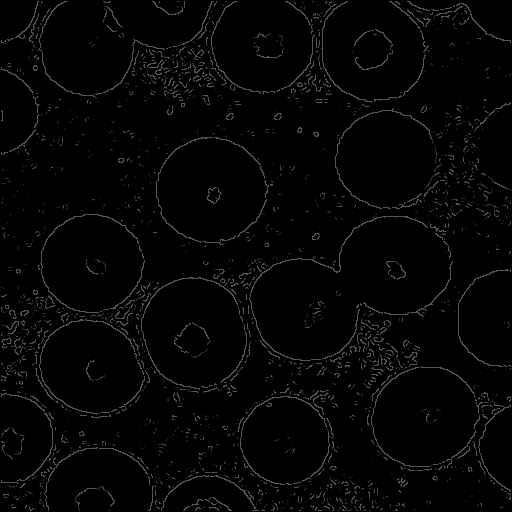
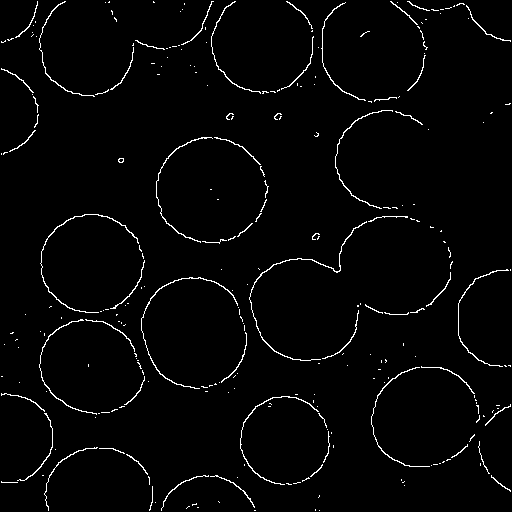
Removed AlphaTrim. Added EdgeTrackerHysteresis. Some filters have been improved.

diff --git a/src/main/java/net/vinograd/imageprocessingapi/processing/edgedetection/tracking/EdgeTrackerHysteresis.java b/src/main/java/net/vinograd/imageprocessingapi/processing/edgedetection/tracking/EdgeTrackerHysteresis.java
@@ -1,0 +1,70 @@
+package net.vinograd.imageprocessingapi.processing.edgedetection.tracking;
+
+
+import net.vinograd.imageprocessingapi.processing.image.Image;
+import net.vinograd.imageprocessingapi.processing.image.PixelColor;
+
+import java.awt.image.BufferedImage;
+
+public class EdgeTrackerHysteresis implements EdgeTracker {
+
+    private final Image image;
+    private final int width;
+    private final int height;
+
+    private final int[][] directions = {
+            {-1, -1}, {-1, 0}, {-1, 1},
+            {0, 1}, {0, -1},
+            {1, -1}, {1, 0}, {1, 1}
+    };
+
+    public EdgeTrackerHysteresis(Image image) {
+        this.image = image;
+        this.width = image.getWidth();
+        this.height = image.getHeight();
+    }
+
+    @Override
+    public Image track() {
+        BufferedImage resultImage = new BufferedImage(width, height, image.getType());
+
+        for (int x = 0; x < width; x++) {
+            for (int y = 0; y < height; y++) {
+                int color = image.getRGB(x, y);
+
+                if (color != PixelColor.fromGrayscale(255)) {
+                    resultImage.setRGB(x, y, PixelColor.fromGrayscale(0));
+                    continue;
+                }
+
+                resultImage.setRGB(x, y, PixelColor.fromGrayscale(255));
+
+                for (int[] direction : directions) {
+                    int dx = direction[0];
+                    int dy = direction[1];
+                    int offsetX = x;
+                    int offsetY = y;
+
+                    while (true) {
+                        offsetX += dx;
+                        offsetY += dy;
+
+                        if (offsetX < 0 || offsetX >= width || offsetY < 0 || offsetY >= height) {
+                            break;
+                        }
+
+                        int colorByDirection = image.getRGB(offsetX, offsetY);
+
+                        if (colorByDirection == PixelColor.fromGrayscale(255) || colorByDirection == PixelColor.fromGrayscale(0)) {
+                            break;
+                        }
+
+                        resultImage.setRGB(x, y, PixelColor.fromGrayscale(255));
+                    }
+                }
+            }
+        }
+
+        return new Image(resultImage);
+    }
+}

diff --git a/src/main/java/net/vinograd/imageprocessingapi/processing/edgedetection/CannyOperator.java b/src/main/java/net/vinograd/imageprocessingapi/processing/edgedetection/CannyOperator.java
@@ -1,5 +1,6 @@
 package net.vinograd.imageprocessingapi.processing.edgedetection;
 
+import net.vinograd.imageprocessingapi.processing.edgedetection.tracking.EdgeTrackerHysteresis;
 import net.vinograd.imageprocessingapi.processing.filter.point.MonochromeGrayConverter;
 import net.vinograd.imageprocessingapi.processing.edgedetection.gradient.GradientCalculator;
 import net.vinograd.imageprocessingapi.processing.edgedetection.gradient.SobelGradientCalculator;
@@ -7,7 +8,6 @@ import net.vinograd.imageprocessingapi.processing.edgedetection.threshold.Double
 import net.vinograd.imageprocessingapi.processing.edgedetection.gradient.GradientMagnitude;
 import net.vinograd.imageprocessingapi.processing.edgedetection.suppression.NonMaximumSuppressor;
 import net.vinograd.imageprocessingapi.processing.filter.matrix.GaussianBlur;
-import net.vinograd.imageprocessingapi.processing.filter.point.NegativeFilter;
 import net.vinograd.imageprocessingapi.processing.image.Image;
 
 public class CannyOperator {
@@ -15,8 +15,8 @@ public class CannyOperator {
     public Image detectEdges(Image image) {
         final double gaussianBlurSigma = 5.0;
         final int gaussianKernelSize = 3;
-        final double lowerThresholdPercentage = 0.5;
-        final double upperThresholdPercentage = 0.6;
+        final double lowerThresholdPercentage = 0.8;
+        final double upperThresholdPercentage = 0.9;
 
         Image resultImage;
 
@@ -26,8 +26,7 @@ public class CannyOperator {
         resultImage = new GradientMagnitude(resultImage, gradientCalculator).apply();
         resultImage = new NonMaximumSuppressor(resultImage, gradientCalculator).suppressNonMaximum();
         resultImage = new DoubleThresholdFilter(upperThresholdPercentage, lowerThresholdPercentage).threshold(resultImage);
-        resultImage = new MonochromeGrayConverter(resultImage).convert();
-        //resultImage = new NegativeFilter(resultImage).convert();
+        resultImage = new EdgeTrackerHysteresis(resultImage).track();
 
         return resultImage;
     }

diff --git a/src/main/java/processing/SobelOperator.java b/src/main/java/processing/SobelOperator.java
@@ -4,7 +4,6 @@ import net.vinograd.imageprocessingapi.processing.edgedetection.gradient.Gradien
 import net.vinograd.imageprocessingapi.processing.edgedetection.gradient.GradientMagnitude;
 import net.vinograd.imageprocessingapi.processing.edgedetection.gradient.SobelGradientCalculator;
 import net.vinograd.imageprocessingapi.processing.filter.point.MonochromeGrayConverter;
-import net.vinograd.imageprocessingapi.processing.filter.point.NegativeFilter;
 import net.vinograd.imageprocessingapi.processing.image.Image;
 
 import javax.imageio.ImageIO;

diff --git a/src/main/java/processing/GaussianBlurExample.java b/src/main/java/processing/GaussianBlurExample.java
@@ -14,7 +14,7 @@ public class GaussianBlurExample {
     private static final String pathToSave = "examples/GaussianBlurConverted.jpg";
 
     public static void main(String[] args) throws IOException {
-        Image convert = new GaussianBlur(new Image(ImageIO.read(new File(pathToImage))), 3, 7).convert();
+        Image convert = new GaussianBlur(new Image(ImageIO.read(new File(pathToImage))), 7, 9).convert();
 
         File file = new File(pathToSave);
 

diff --git a/src/main/java/net/vinograd/imageprocessingapi/processing/edgedetection/threshold/DoubleThresholdFilter.java b/src/main/java/net/vinograd/imageprocessingapi/processing/edgedetection/threshold/DoubleThresholdFilter.java
@@ -30,9 +30,9 @@ public class DoubleThresholdFilter implements ThresholdFilter{
 
     @Getter
     public enum Bound {
-        UPPER_BOUND(255),
-        MIDDLE_BOUND(127),
-        LOWER_BOUND(0);
+        UPPER_BOUND(PixelColor.fromGrayscale(255)),
+        MIDDLE_BOUND(PixelColor.fromGrayscale(127)),
+        LOWER_BOUND(PixelColor.fromGrayscale(0));
 
         private final int value;
 

diff --git a/src/main/java/processing/EmbossVertical.java b/src/main/java/processing/EmbossVertical.java
@@ -1,7 +1,6 @@
 package processing;
 
 import net.vinograd.imageprocessingapi.processing.filter.matrix.Emboss;
-import net.vinograd.imageprocessingapi.processing.filter.point.MonochromeGrayConverter;
 import net.vinograd.imageprocessingapi.processing.image.Image;
 
 import javax.imageio.ImageIO;

diff --git a/src/main/java/net/vinograd/imageprocessingapi/processing/edgedetection/tracking/EdgeTracker.java b/src/main/java/net/vinograd/imageprocessingapi/processing/edgedetection/tracking/EdgeTracker.java
@@ -1,0 +1,9 @@
+package net.vinograd.imageprocessingapi.processing.edgedetection.tracking;
+
+import net.vinograd.imageprocessingapi.processing.image.Image;
+
+public interface EdgeTracker {
+
+    Image track();
+
+}

diff --git a/src/main/java/net/vinograd/imageprocessingapi/processing/image/PixelColor.java b/src/main/java/net/vinograd/imageprocessingapi/processing/image/PixelColor.java
@@ -44,4 +44,8 @@ public class PixelColor {
         return value;
     }
 
+    public static int fromGrayscale(int grayscale){
+        return new PixelColor(grayscale, grayscale, grayscale).getRgb();
+    }
+
 }
